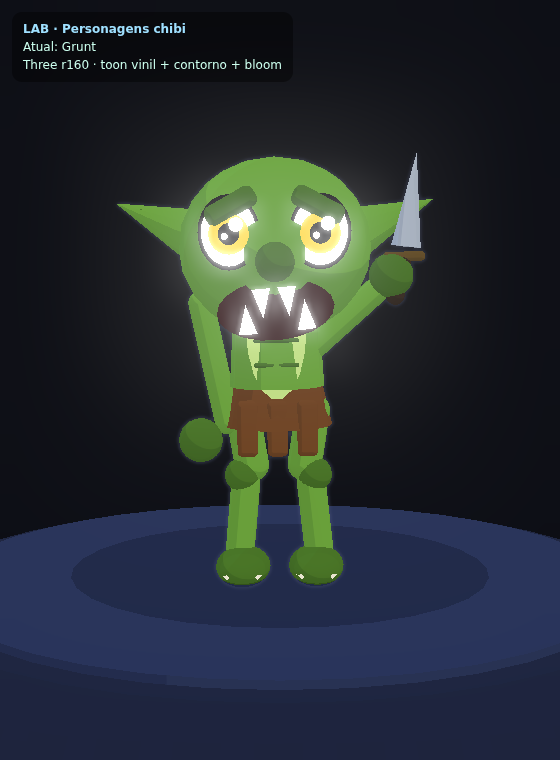
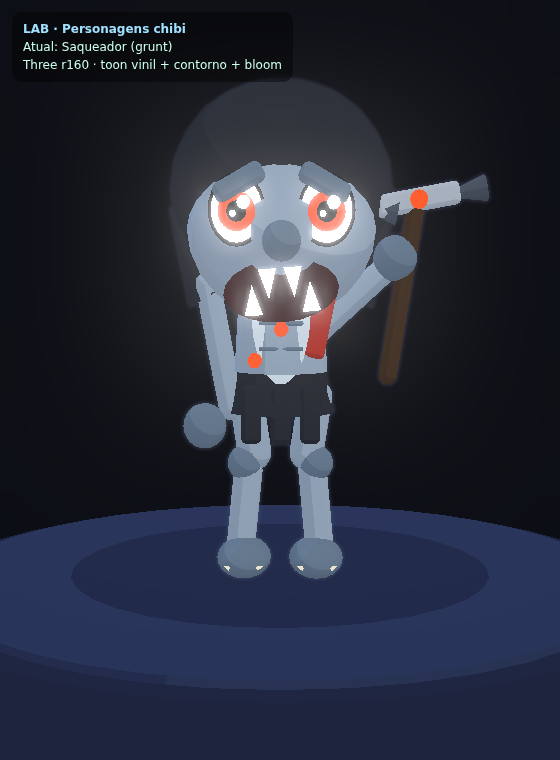
feat(lab): refaz grunt como "Saqueador" (A Maré, Vermelho) — gelo-morto
Segue lab/concept/saqueador.png: carne enregelada azul-acinzentada, capuz/trapos
escuros, cachecol vermelho (facção), olhos-brasa (calor residual), brasas no peito
e picareta tosca de ferro. Substitui o goblin verde. Silhueta limpa. ERROS=[].

https://claude.ai/code/session_01FsKks2LfpRXbTiAL1QZHxj

Changed region(s): [[0.2125, 0.0908, 0.8804, 0.7868], [0.1214, 0.0605, 0.2125, 0.0908], [0.2429, 0.0605, 0.3036, 0.0908]]

diff --git a/lab/monsters.js b/lab/monsters.js
@@ -25,13 +25,17 @@ function fangMouth(width = 0.5, color = 0x3a0d12, fangColor = 0xfdfdff) {
   return g;
 }
 
-// ════════════════════════════ GRUNT (goblin magrelo/esquálido) ════════════════════════════
+// ═══════════════ GRUNT — "Saqueador" (A Maré, Vermelho): saqueador gelo-morto ═══════════════
+// Ficha: lab/concept/saqueador.png — carne enregelada, trapos+capuz, cachecol
+// vermelho (facção), brasa/calor residual e picareta tosca. Gaunto e curvado.
 export function buildGrunt(opts = {}) {
-  const SKIN = opts.skin ?? 0x74b03e;   // verde saturado
-  const SKIN2 = opts.skin2 ?? 0x4f7d27;  // sombra/verde escuro
-  const BELLY = opts.belly ?? 0xbfdc84;  // barriga/peito claro
-  const CLOTH = opts.cloth ?? 0x7a4a22;  // tanga
+  const SKIN = opts.skin ?? 0x9fb1c2;   // carne enregelada (azul-acinzentado)
+  const SKIN2 = opts.skin2 ?? 0x6d8194;  // sombra/gangrena fria
+  const BELLY = opts.belly ?? 0xc4d2dd;  // peito/abdômen gelado claro
+  const CLOTH = opts.cloth ?? 0x2b2f37;  // trapos escuros
   const STEEL = 0xb8c2cc;
+  const RED = opts.red ?? 0xbe392c;     // facção Vermelho (cachecol/faixa)
+  const EMBER = 0xff5a28;               // brasa / calor residual (brilho)
 
   const model = new THREE.Group();
   const HEADR = 0.5;
@@ -85,21 +89,25 @@ export function buildGrunt(opts = {}) {
   const armR = capsule(0.07, 0.54, SKIN); armR.position.set(0.36, 1.42, 0.08);
   armR.rotation.z = -0.85; model.add(armR);
   const handR = glove(0.12, SKIN2); handR.position.set(0.62, 1.66, 0.12); model.add(handR);
-  // adaga (cabo + lâmina serrilhada)
-  const grip = capsule(0.05, 0.18, 0x3a2a1c); grip.position.set(0.66, 1.64, 0.12); grip.rotation.z = -0.2; model.add(grip);
-  const guard = rbox(0.22, 0.05, 0.08, 0x6b5224, 0.02); guard.position.set(0.69, 1.76, 0.12); model.add(guard);
-  const blade = new THREE.Mesh(new THREE.ConeGeometry(0.08, 0.5, 4), vinyl(STEEL));
-  blade.position.set(0.73, 2.06, 0.12); blade.rotation.z = -0.12; model.add(blade);
+  // PICARETA tosca (cabo de madeira + cabeça de ferro de dois bicos + brasa)
+  const haft = capsule(0.05, 0.9, 0x4a3422); haft.position.set(0.66, 1.5, 0.12); haft.rotation.z = -0.16; model.add(haft);
+  const pickH = rbox(0.46, 0.12, 0.1, STEEL, 0.03); pickH.position.set(0.74, 1.96, 0.12); pickH.rotation.z = 0.18; model.add(pickH);
+  for (const dx of [-1, 1]) {
+    const spike = cone(0.07, 0.26, 0x515a66, 8); spike.position.set(0.74 + dx * 0.24, 1.96 + dx * 0.04, 0.12);
+    spike.rotation.z = Math.PI / 2 + dx * 0.18; model.add(spike);
+  }
+  const heat = new THREE.Mesh(new THREE.IcosahedronGeometry(0.05, 1), glow(EMBER));
+  heat.position.set(0.74, 1.96, 0.18); heat.userData.noOutline = true; model.add(heat);
 
   // ── CABEÇA grande (chibi) levemente projetada pra frente ──
   const head = ball(HEADR, SKIN); head.position.set(0, HEADY, 0.08); head.scale.set(1.04, 0.96, 0.98); model.add(head);
 
-  // orelhas pontudas enormes (silhueta!)
+  // CAPUZ esfarrapado (cowl escuro cobrindo topo/atrás) + pontas caídas nas laterais
+  const hood = blob(0.62, 0.58, 0.6, CLOTH); hood.position.set(0, HEADY + 0.2, -0.12); model.add(hood);
+  const hoodBack = blob(0.5, 0.5, 0.34, 0x1d2027); hoodBack.position.set(0, HEADY + 0.08, -0.42); model.add(hoodBack);
   for (const sx of [-1, 1]) {
-    const ear = cone(0.18, 0.62, SKIN, 14); ear.position.set(sx * 0.6, HEADY + 0.14, -0.02);
-    ear.rotation.z = sx * -1.2; ear.rotation.y = sx * 0.3; model.add(ear);
-    const earIn = cone(0.09, 0.42, SKIN2, 12); earIn.position.set(sx * 0.55, HEADY + 0.14, 0.04);
-    earIn.rotation.z = sx * -1.2; earIn.rotation.y = sx * 0.3; earIn.userData.noOutline = true; model.add(earIn);
+    const flap = cone(0.16, 0.52, CLOTH, 10); flap.position.set(sx * 0.5, HEADY - 0.12, -0.04);
+    flap.rotation.z = sx * -0.5; model.add(flap);
   }
 
   // sobrancelha raivosa (bloco escuro angulado pra dentro)
@@ -107,10 +115,12 @@ export function buildGrunt(opts = {}) {
     const brow = rbox(0.28, 0.11, 0.08, SKIN2, 0.04);
     brow.position.set(sx * 0.22, HEADY + 0.2, HEADR * 0.9 + 0.08); brow.rotation.z = sx * -0.5; model.add(brow);
   }
-  // olhos arregalados amarelos (a fúria vem das sobrancelhas)
+  // olhos brasa (calor residual) fundos e brilhantes
   for (const sx of [-1, 1]) {
-    const e = eye(0.17, 0xffd23a, 'normal');
+    const e = eye(0.16, EMBER, 'normal');
     e.position.set(sx * 0.23, HEADY + 0.07, HEADR * 0.92 + 0.08); e.userData.noOutline = true; model.add(e);
+    const gl = new THREE.Mesh(new THREE.CircleGeometry(0.1, 14), glow(EMBER));
+    gl.position.set(sx * 0.23, HEADY + 0.07, HEADR * 0.9 + 0.06); gl.userData.noOutline = true; model.add(gl);
   }
   // nariz comprido e adunco
   const nose = blob(0.1, 0.1, 0.2, SKIN2); nose.position.set(0, HEADY - 0.08, HEADR * 0.95 + 0.12); model.add(nose);
@@ -118,7 +128,14 @@ export function buildGrunt(opts = {}) {
   const mouth = fangMouth(0.3); mouth.position.set(0, HEADY - 0.32, HEADR * 0.84 + 0.08);
   mouth.rotation.z = 0.08; model.add(mouth);
 
-  outlineAll(model, 0.045);
+  // CACHECOL/faixa vermelha (cor da facção) + brasas residuais espalhadas
+  const scarf = new THREE.Mesh(new THREE.CylinderGeometry(0.3, 0.34, 0.18, 16), vinyl(RED));
+  scarf.position.set(0, 1.66, 0.06); model.add(scarf);
+  const tail = rbox(0.16, 0.5, 0.06, RED, 0.04); tail.position.set(0.2, 1.4, 0.24); tail.rotation.z = -0.2; model.add(tail);
+  for (const p of [[0.0, 1.3, 0.3], [-0.14, 1.14, 0.29]]) {
+    const crack = new THREE.Mesh(new THREE.IcosahedronGeometry(0.04, 1), glow(EMBER));
+    crack.position.set(...p); crack.userData.noOutline = true; model.add(crack);
+  }
   return { model, lights: [] };
 }
 

diff --git a/lab/characters.html b/lab/characters.html
@@ -43,7 +43,7 @@ import { buildGrunt, buildRunner, buildShield } from './monsters.js';
 // registro de personagens (nome → builder + rótulo + foco de câmera)
 const CHARS = {
   hero:   { build: buildHeroMage, label: 'Pyr (bruxa de fogo)', look: 1.35, dist: 7.4 },
-  grunt:  { build: buildGrunt,    label: 'Grunt',      look: 1.1,  dist: 6.8 },
+  grunt:  { build: buildGrunt,    label: 'Saqueador (grunt)', look: 1.1, dist: 6.8 },
   runner: { build: buildRunner,   label: 'Runner',     look: 1.0,  dist: 6.6 },
   shield: { build: buildShield,   label: 'Shield',     look: 1.1,  dist: 7.2 },
 };
